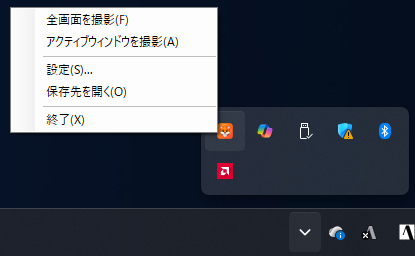
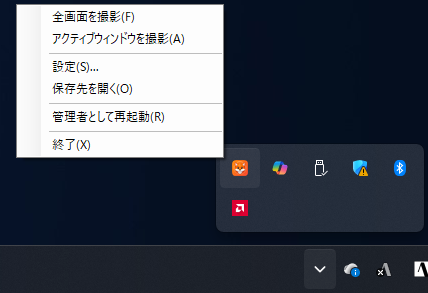
README: tray menu screenshot now shows the elevate item; describe it

diff --git a/README.md b/README.md
@@ -91,9 +91,9 @@ git push origin main v0.2.0
 
 ## 使い方
 
-起動するとトレイにキツネのアイコンが出ます。左クリックまたは右クリックでメニューが開き、ダブルクリックで設定画面が開きます。メニューには「全画面を撮影」「アクティブウィンドウを撮影」「設定...」「保存先を開く」「終了」があります（通常権限のときは「管理者として再起動」も表示）。
+起動するとトレイにキツネのアイコンが出ます。左クリックまたは右クリックでメニューが開き、ダブルクリックで設定画面が開きます。メニューには「全画面を撮影」「アクティブウィンドウを撮影」「設定...」「保存先を開く」「管理者として再起動」「終了」があります。「管理者として再起動」は通常権限で動いているときだけ表示され、管理者権限で動いているときは出ません。
 
-<img src="docs/doc_01.png" width="415" alt="トレイのキツネアイコンとメニュー">
+<img src="docs/doc_01.png" width="415" alt="トレイのキツネアイコンとメニュー（通常権限で起動したとき）">
 
 設定画面では以下を変更できます。
 

diff --git a/README_EN.md b/README_EN.md
@@ -91,9 +91,9 @@ Tests that capture the real screen (`Category=Screen`) do not work on the runner
 
 ## Usage
 
-When started, a fox icon appears in the tray. Left-click or right-click opens the menu; double-click opens the settings dialog. The menu has "Capture full screen", "Capture active window", "Settings...", "Open save folder" and "Exit" (plus "Restart as administrator" when not elevated).
+When started, a fox icon appears in the tray. Left-click or right-click opens the menu; double-click opens the settings dialog. The menu has "Capture full screen", "Capture active window", "Settings...", "Open save folder", "Restart as administrator" and "Exit". "Restart as administrator" appears only while running as a normal user; it is hidden when already elevated.
 
-<img src="docs/doc_01.png" width="415" alt="Fox icon in the tray and its menu">
+<img src="docs/doc_01.png" width="415" alt="Fox icon in the tray and its menu (running as a normal user)">
 
 The settings dialog lets you change the following. (The UI is in Japanese.)
 
